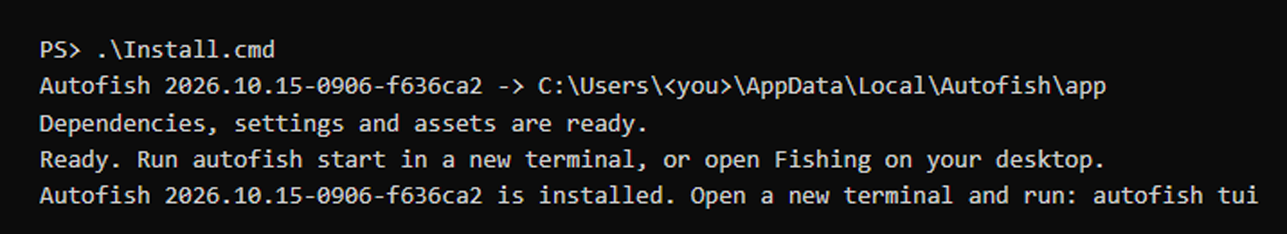
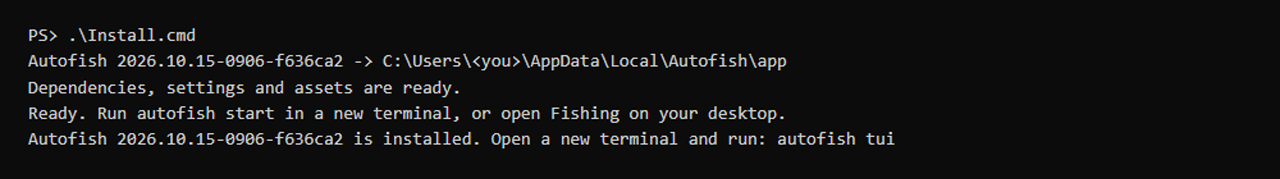
Rod Lab: exact refine luck per level; rod sessions record their writer

Changed region(s): [[0.0, 0.4469, 1.0, 0.8939], [0.0, 0.2793, 0.875, 0.419], [0.0, 0.1397, 0.2188, 0.2514]]

diff --git a/rodlab_template.html b/rodlab_template.html
@@ -431,6 +431,6 @@ function predict(){
 }
 
 $('asof').textContent = `Data as of ${DATA.generated}`;
-$('foot').innerHTML = `<span>Prices: Common 33 · Uncommon 66 · Legendary 165</span><span>Crate base gold: B ${fmt(DATA.crates.B.gold)} · A ${fmt(DATA.crates.A.gold)} (2× boost doubles crates only)</span><span>Enchant luck: +9 = 2× · +10 = 3× · others interpolated</span><span>Range bars: shaded = measured 95% range, tick = predicted chance</span>`;
+$('foot').innerHTML = `<span>Prices: Common 33 · Uncommon 66 · Legendary 165</span><span>Crate base gold: B ${fmt(DATA.crates.B.gold)} · A ${fmt(DATA.crates.A.gold)} (2× boost doubles crates only)</span><span>Refine luck per level: +1 1.05× … +8 1.9×, +9 2×, +10 3×</span><span>Range bars: shaded = measured 95% range, tick = predicted chance</span>`;
 drawSeg(); render(); drawPredictor();
 </script>

diff --git a/rod_stats.py b/rod_stats.py
@@ -40,9 +40,9 @@ def crate_multiplier():
 DEFAULT_BUFFS = {'Legendary': {'enchant': 10, 'fish_luck': 1.5, 'fishing_luck_factor': 1.2, 'bite_speed': 3.0, 'catch_tier': 'Items'},
                  'Rare': {'enchant': 0, 'fish_luck': .25, 'bite_speed': 1.5, 'catch_tier': 'Rare'},
                  'Common': {'enchant': 0, 'catch_tier': 'Common'}}
-# Rod enchant level -> luck multiplier (user, 2026-10-15: +9 = 2x, +10 = 3x; lower
-# levels step up gradually, exact values pending). Override in config: enchant_luck.
-ENCHANT_LUCK = {0: 1.0, 9: 2.0, 10: 3.0}
+# Rod enchant (refine) level -> luck multiplier, from the in-game refine screen
+# (user, 2026-10-15). One refine step costs 125 Wen + 2 Refinement Ore.
+ENCHANT_LUCK = {0: 1.0, 1: 1.05, 2: 1.1, 3: 1.2, 4: 1.3, 5: 1.4, 6: 1.55, 7: 1.7, 8: 1.9, 9: 2.0, 10: 3.0}
 
 
 def enchant_luck(level):
@@ -70,7 +70,8 @@ def set_rod(rod, at=None, root=None):
         if rows[-1]['rod'] == rod:
             save_config({'active_rod': rod}); return rows[-1]
         rows[-1]['ended'] = at
-    row = {'rod': rod, 'started': at, 'ended': None}
+    import os, sys
+    row = {'rod': rod, 'started': at, 'ended': None, 'by': f"{os.getpid()} {Path(sys.argv[0]).name if sys.argv and sys.argv[0] else '?'}"}
     rows.append(row)
     atomic_json(root/SESSIONS_FILE, {'sessions': rows})
     save_config({'active_rod': rod})
